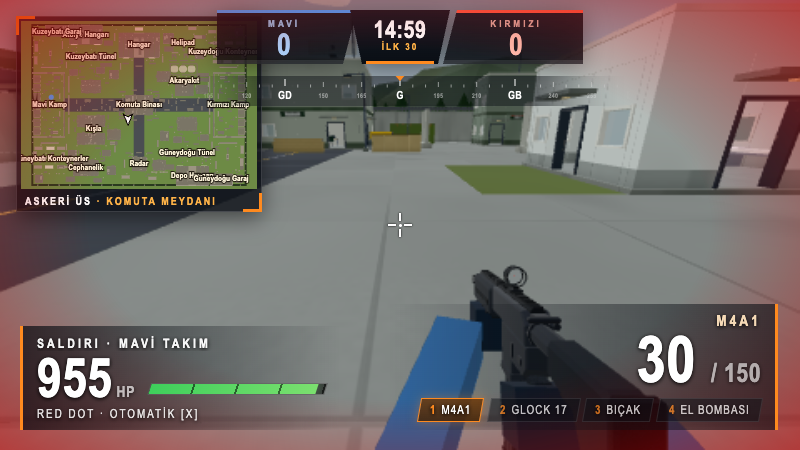
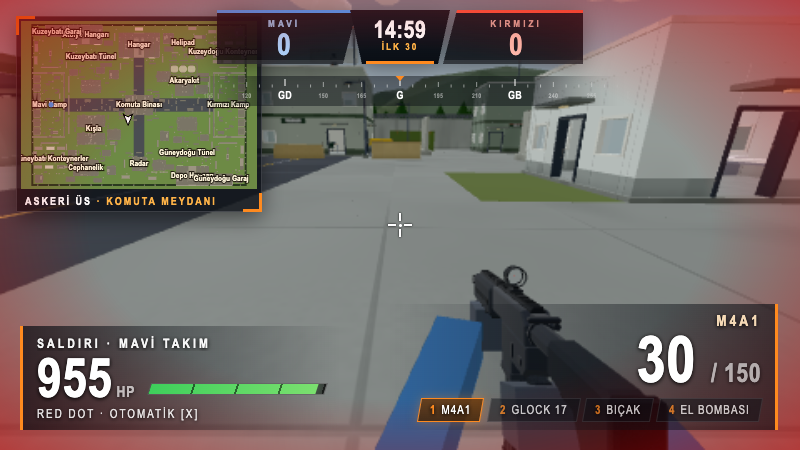
Orta tık: helikopter pilotunda roket, diğer her yerde işaret (12.201 + 12.202 birleşimi)

diff --git a/src/game/player.js b/src/game/player.js
@@ -1021,7 +1021,7 @@ export class Player {
     this.on(cv, 'mousedown', (e) => {
       if (this.wheel) { if (e.button === 0) this.wheelPick(); return; }                       // tekerlek açıkken tık = seçim (ateş değil)
       if (this.game.bigMap?.open && document.pointerLockElement) { this.game.bigMap.lockedClick(e.button); return; }      // 12.202 harita açık: tık imlecin altındakine
-      if (e.button === 1) { e.preventDefault(); if (this.locked && this.s.alive) this.game.pings?.spot(); return; }       // 12.202 orta tık: işaret (Battlefield spot)
+      if (e.button === 1 && !(this.s.veh && this.s.seat === 0 && this.s.veh.def.rockets)) { e.preventDefault(); if (this.locked && this.s.alive) this.game.pings?.spot(); return; }       // 12.202 orta tık: işaret (Battlefield spot); roketli araç sürücüsünde 12.201 roket (aşağıda)
       if (!this.locked) { this.game.requestLock(); return; }
       if (this.game.chatOpen) return;
       if (e.button === 0) { this.fireHeld = true; this.fireBuf = 0.15; this.game.online?.edge('fp'); }
